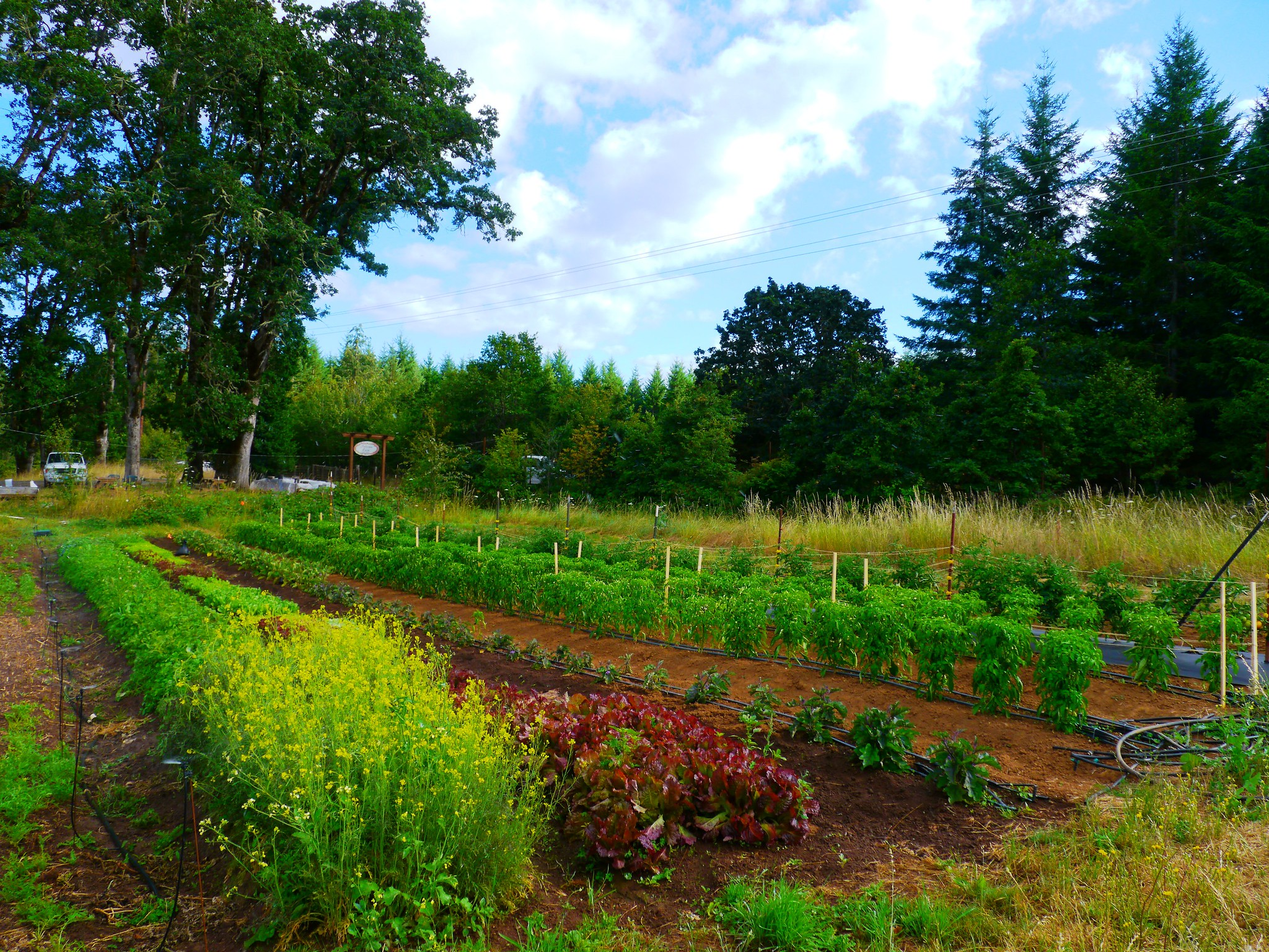
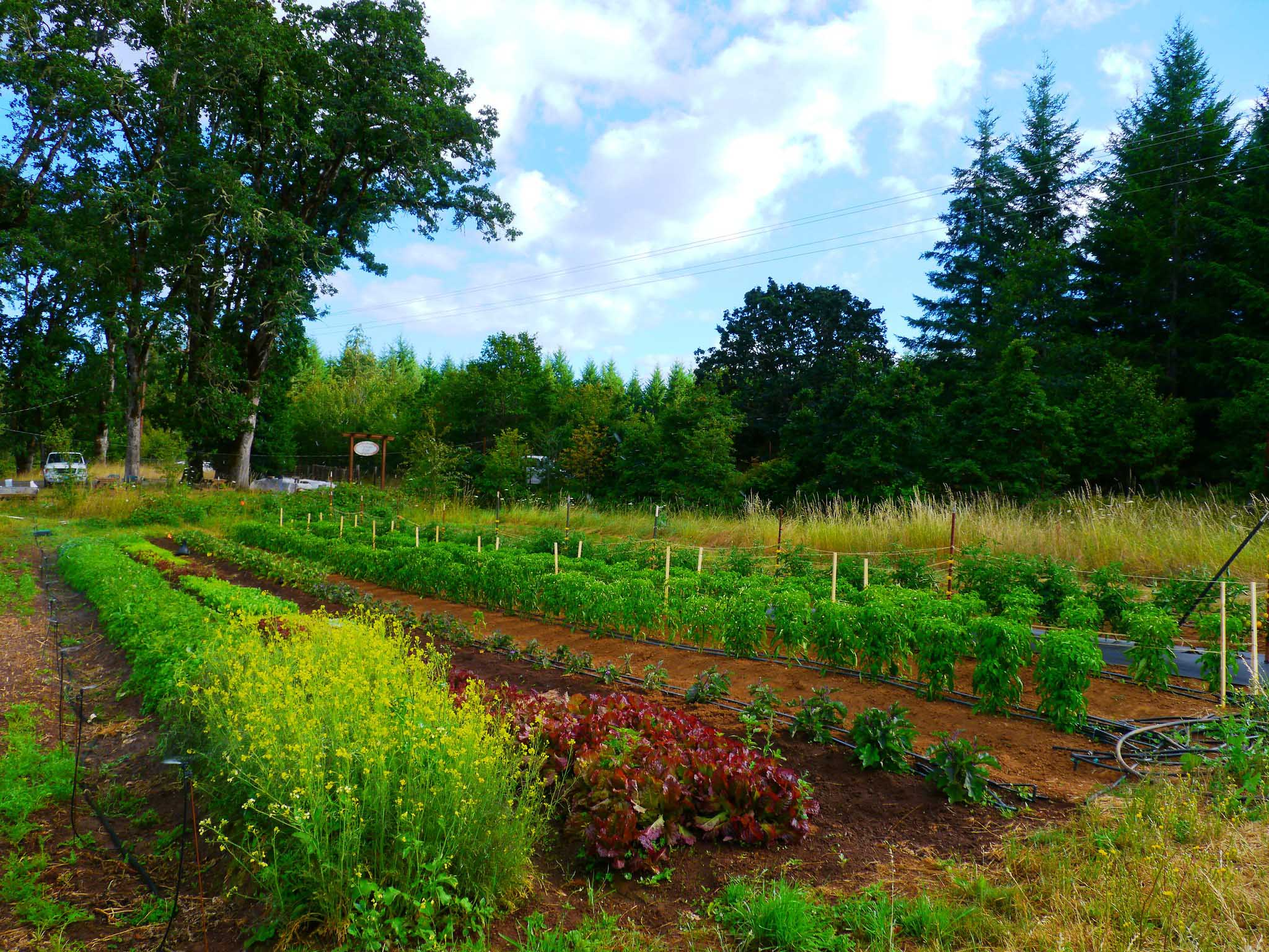
image quality reduced

diff --git a/lerning_and_development/HR-department.html b/lerning_and_development/HR-department.html
@@ -134,6 +134,11 @@
 
     <section id="blog-main-card-post" class="blog-tag-identify">
       <div class="container">
+        <div class="learn-filter-container">
+          <button class="show-all-button">Show All</button>
+          <button class="filter-button" data-key="key1">For Interns</button>
+          <button class="filter-button" data-key="key2">For Associates</button>
+        </div>
         
         <div class=" news-container ">
 
@@ -150,7 +155,7 @@
                     </h3> -->
                     <div>
             
-                      <div class="job_list" id="jobs">           
+                      <div class="job_list learn-card" data-key="key1" id="jobs">           
                           <div class="job-name job-card row">
                             <img src="../images/jithmi.deshanjalee.jpg" alt="img" class="job-profile rounded-circle col-md-3" />
                             
@@ -169,7 +174,7 @@
                     
 
 
-                     <div class="job_list" id="jobs">           
+                     <div class="job_list learn-card" data-key="key2" id="jobs">           
                           <div class="job-name job-card row">
                             <img src="../images/Gajani-Vivekanandan.png" alt="img" class="job-profile rounded-circle col-md-3" />
                             
@@ -304,7 +309,42 @@
     <script src="../js/translate.js"></script>
     <script type="text/javascript" src="//translate.google.com/translate_a/element.js?cb=googleTranslateElementInit"></script>
   
+    <script>
+      document.addEventListener("DOMContentLoaded", function () {
+    const filterButtons = document.querySelectorAll(".filter-button");
+    const cards = document.querySelectorAll(".learn-card");
+    const showAllButton = document.querySelector(".show-all-button");
+  
+    // Function to filter cards based on key name
+    function filterCards(key) {
+      cards.forEach((card) => {
+        const cardKey = card.dataset.key;
+  
+        // If the card key matches the selected button's data-key, show the card; otherwise, hide it.
+        card.style.display = cardKey === key ? "block" : "none";
+      });
+    }
 
+      // Function to show all cards
+  function showAllCards() {
+    cards.forEach((card) => {
+      card.style.display = "block";
+    });
+  }
+  
+    // Event listener for the filter buttons click
+    filterButtons.forEach((button) => {
+      button.addEventListener("click", function () {
+        const key = this.dataset.key;
+        filterCards(key);
+      });
+    });
+    // Event listener for the "Show All" button click
+  showAllButton.addEventListener("click", showAllCards);
+
+  });
+  
+    </script>
 
   </body>
 </html>

diff --git a/blog/blog-main.html b/blog/blog-main.html
@@ -1273,7 +1273,7 @@
                     reduction of work hours required to produce food.
                   </div>
                   <div class="blog-post-read-button text-center">
-                    <a href="blog-page-5">Read More</a>
+                    <a href="blog-page-5.html">Read More</a>
                   </div>
                 </div>
               </div>
@@ -1337,7 +1337,7 @@
                     is healthy and productive soil.
                   </div>
                   <div class="blog-post-read-button text-center">
-                    <a href="blog-page-4">Read More</a>
+                    <a href="blog-page-4.html">Read More</a>
                   </div>
                 </div>
               </div>
@@ -1413,7 +1413,7 @@
                     irrigation water, as well as the irrigation infrastructure.
                   </div>
                   <div class="blog-post-read-button text-center">
-                    <a href="blog-page-3">Read More</a>
+                    <a href="blog-page-3.html">Read More</a>
                   </div>
                 </div>
               </div>
@@ -1496,7 +1496,7 @@
                     before.
                   </div>
                   <div class="blog-post-read-button text-center">
-                    <a href="blog-page-2">Read More</a>
+                    <a href="blog-page-2.html">Read More</a>
                   </div>
                 </div>
               </div>
@@ -1574,7 +1574,7 @@
                     advancements have opened several doors for farmers.
                   </div>
                   <div class="blog-post-read-button text-center">
-                    <a href="blog-page">Read More</a>
+                    <a href="blog-page.html">Read More</a>
                   </div>
                 </div>
               </div>

diff --git a/css/style.css b/css/style.css
@@ -4130,10 +4130,7 @@ footer a:hover {
 .news-top-container {
   padding: 10px 30px 0px 20px;
 }
-.news-container {
-  /* display: fl; */
-  
-}
+
 .news-image-container {
   width: 40%;
   height: auto;
@@ -4267,6 +4264,29 @@ a {
 .pagination-link.active {
   color: #fff;
   background: #009207;
+}
+
+.learn-filter-container{
+  display: flex;
+  justify-content: space-around;
+}
+
+.learn-filter-container button{
+  background-color: #005a0b;
+  outline: none;
+  border: none;
+  padding: 5px 25px;
+  color: #fff;
+  border-radius: 5px;
+  font-size: 14px;
+  transition: .5s;
+  letter-spacing: 1px;
+}
+
+.learn-filter-container button:hover{
+ color: #005a0b;
+ background-color: white;
+ box-shadow: 2px 4px 10px rgba(0, 0, 0, 0.5);
 }
 
 /* pagination end */
